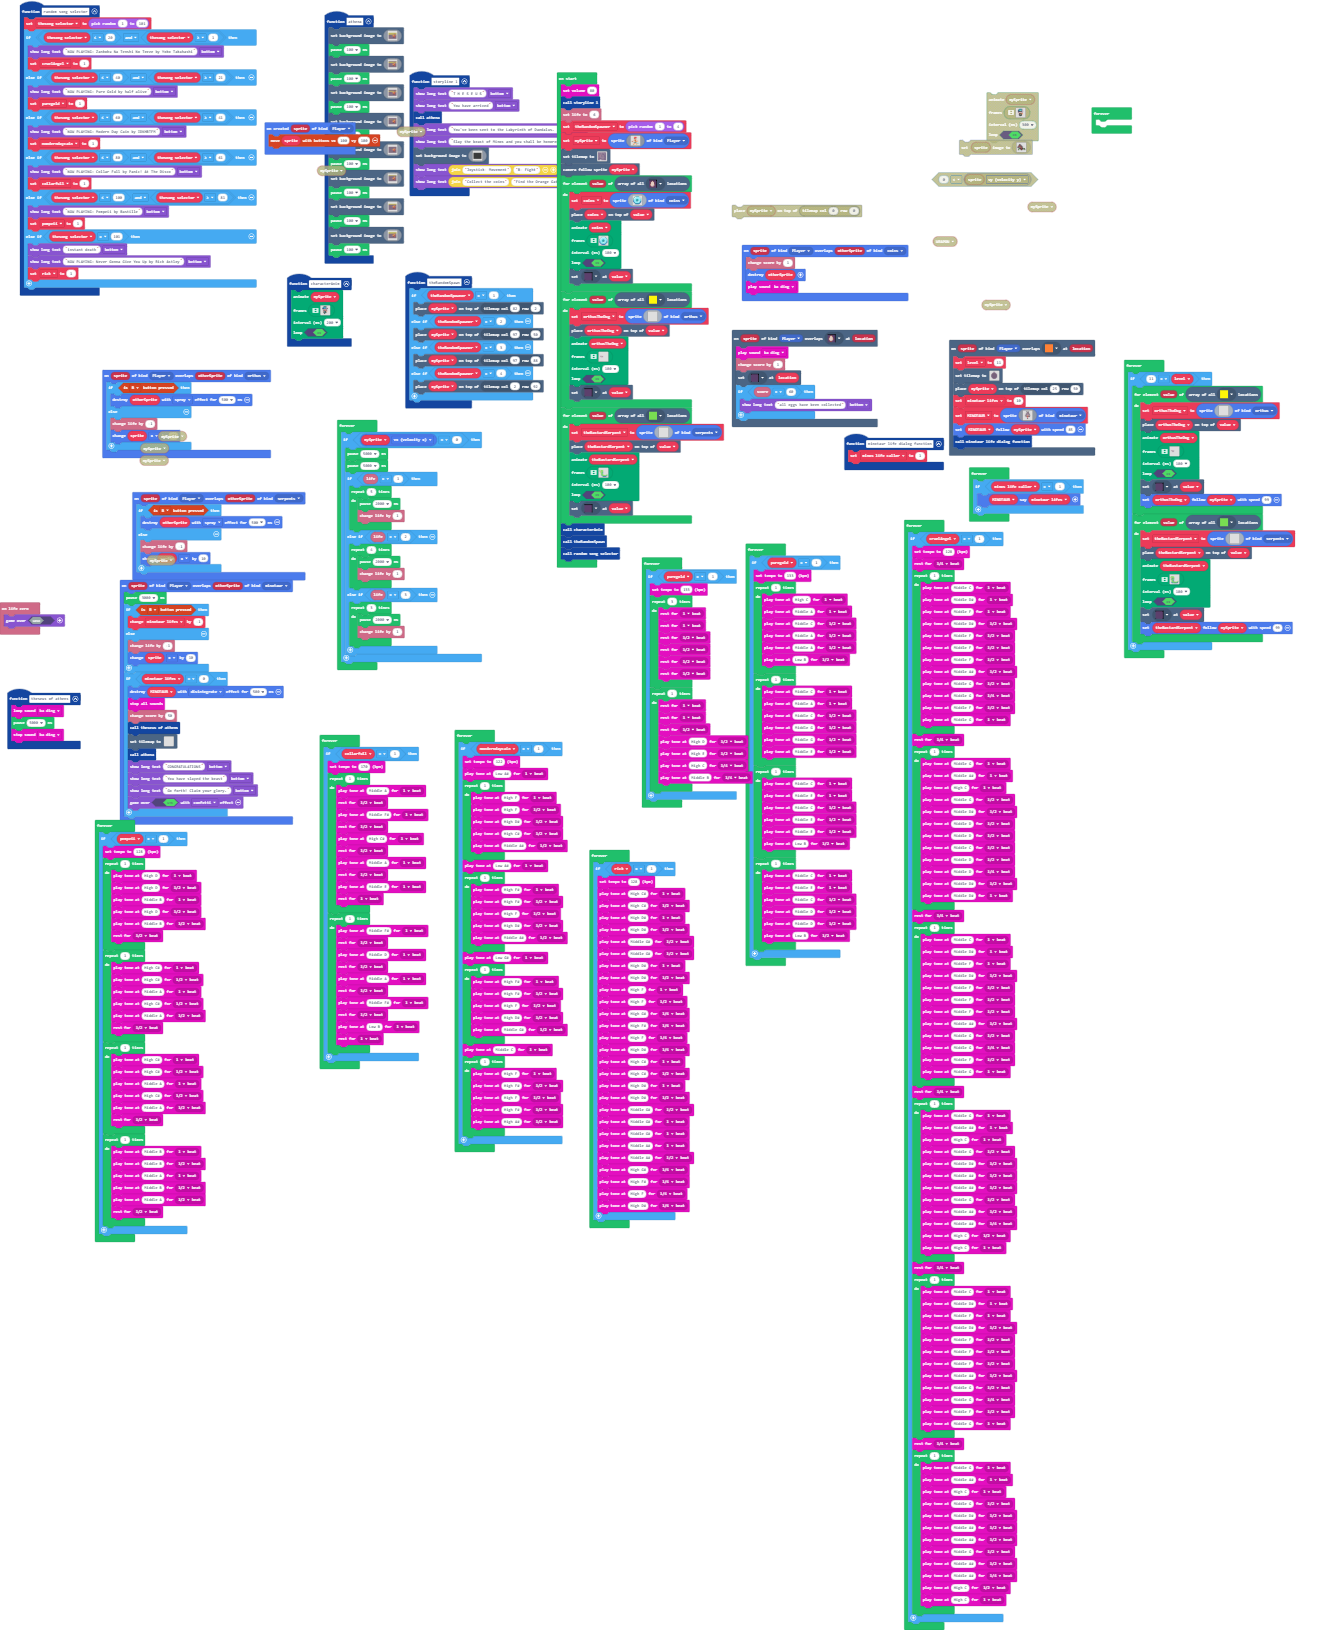
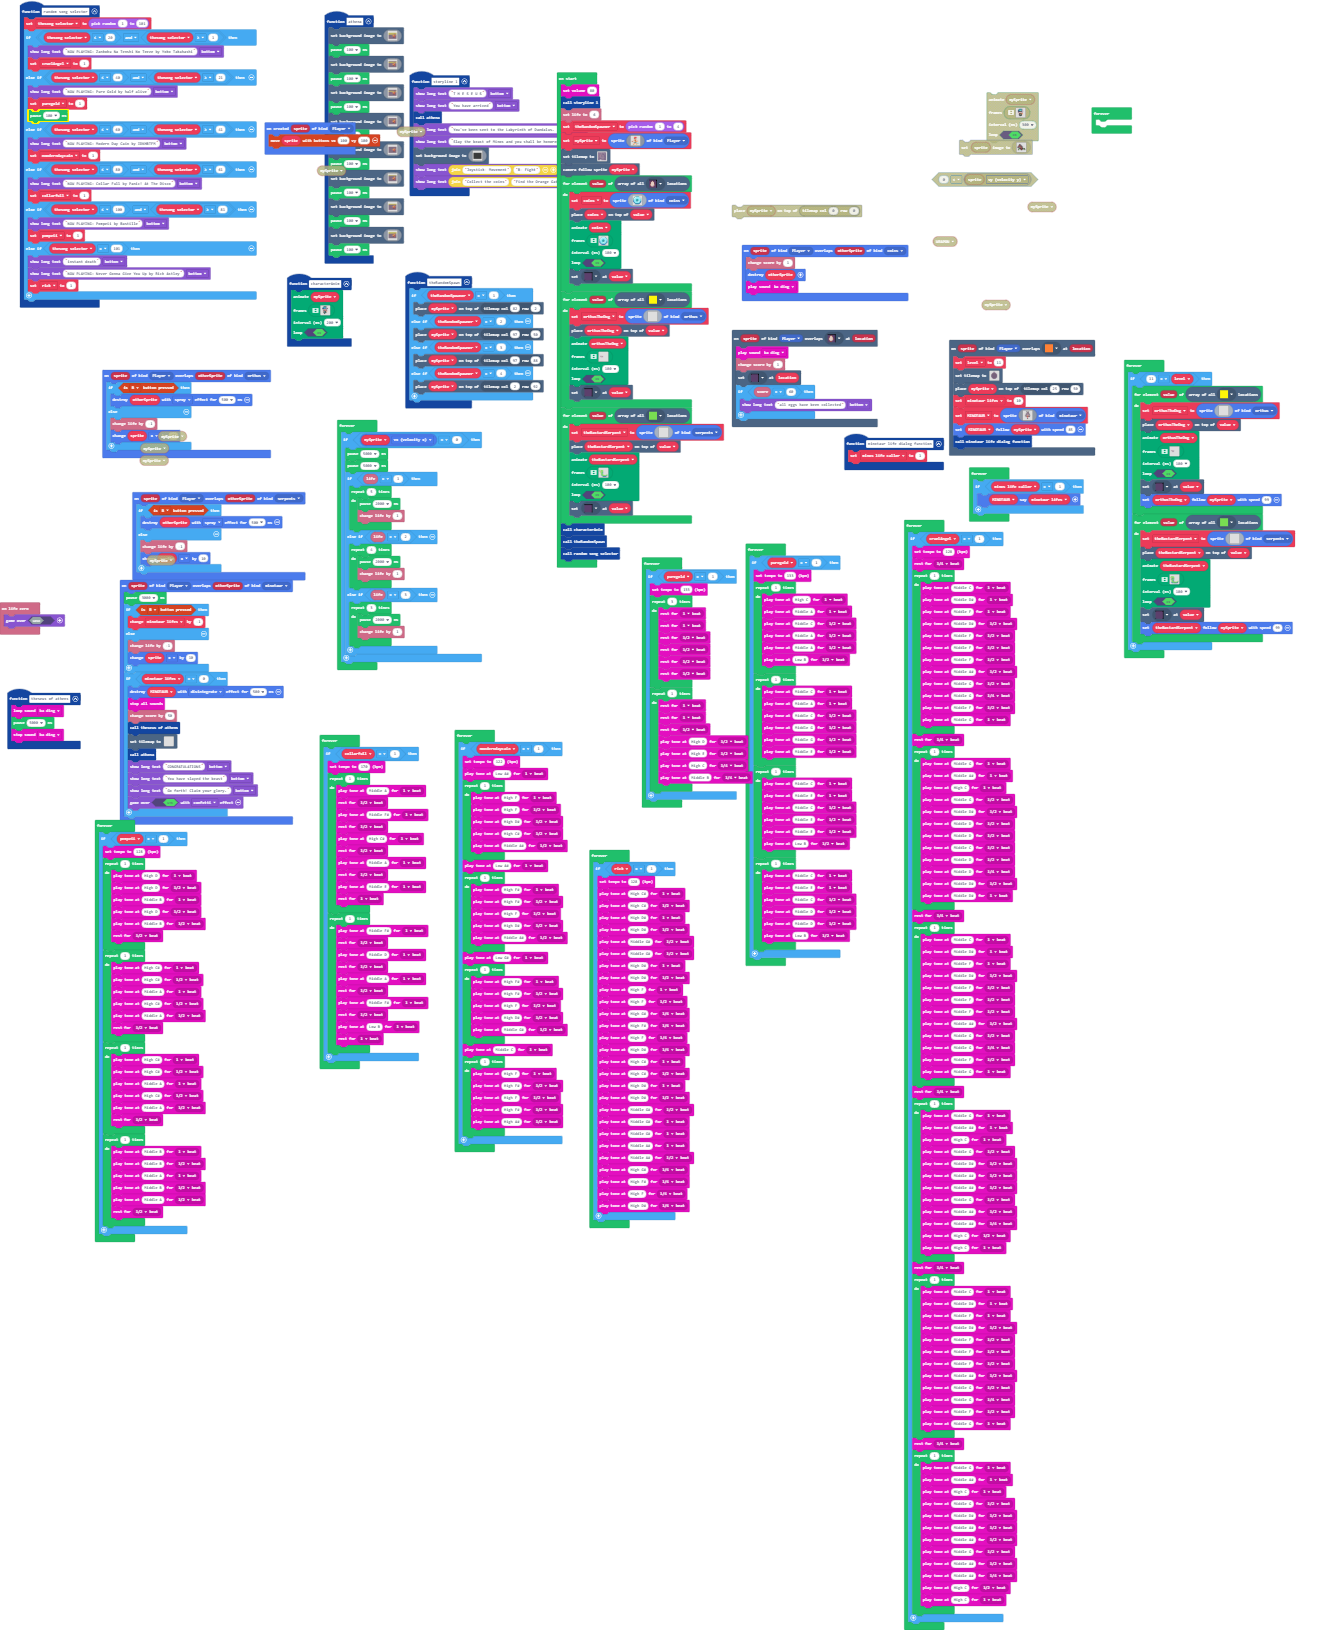
i hate

Changed region(s): [[0.0, 0.0613, 0.2151, 0.2147]]

diff --git a/main.ts b/main.ts
@@ -1376,6 +1376,7 @@ function random_song_selector () {
     } else if (thesong_selector <= 40 && thesong_selector >= 21) {
         game.showLongText("NOW PLAYING: Pure Gold by half alive", DialogLayout.Bottom)
         puregold = 1
+        pause(100)
     } else if (thesong_selector <= 60 && thesong_selector >= 41) {
         game.showLongText("NOW PLAYING: Modern Day Cain by IDKHBTFM", DialogLayout.Bottom)
         mooderndaycain = 1
